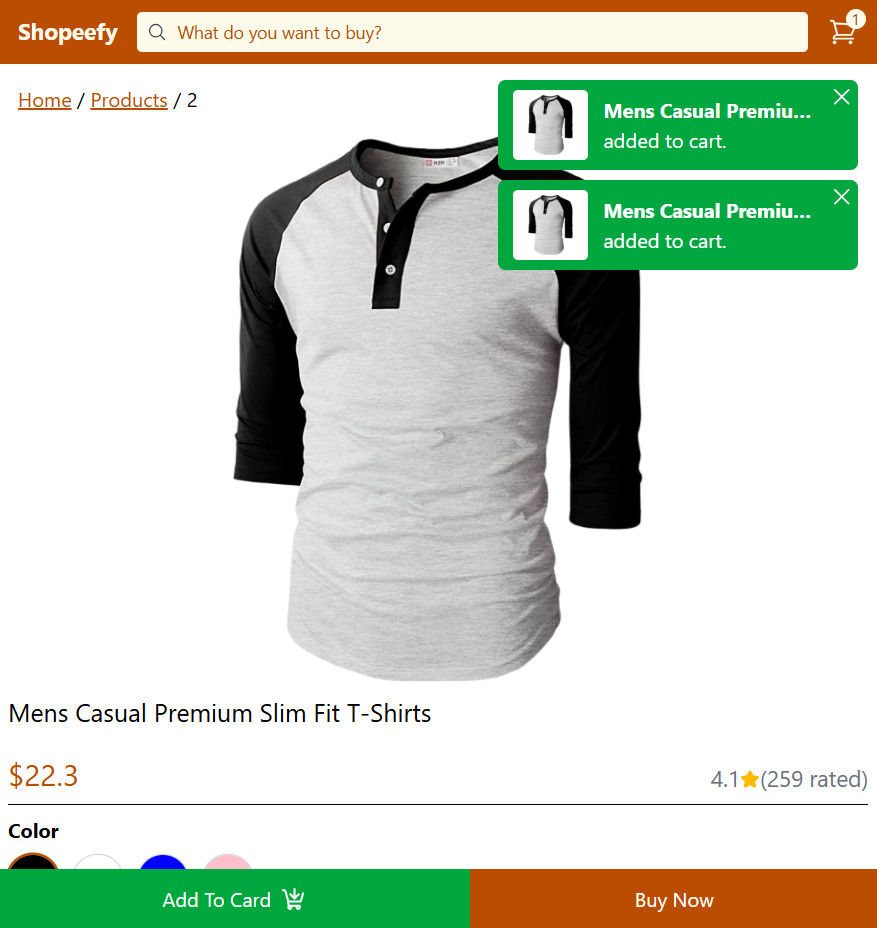
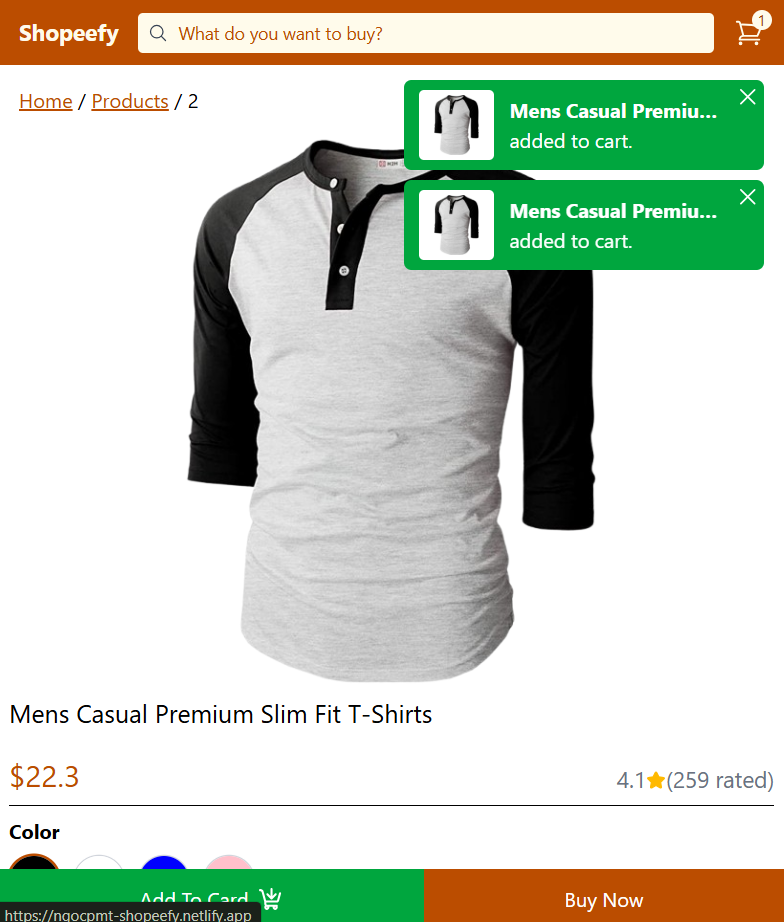
change font family to Fira Code and adjust project image sizing

diff --git a/index.html b/index.html
@@ -4,6 +4,12 @@
     <meta charset="UTF-8" />
     <link rel="icon" type="image/svg+xml" href="/favicon.svg" />
     <meta name="viewport" content="width=device-width, initial-scale=1.0" />
+    <link rel="preconnect" href="https://fonts.googleapis.com" />
+    <link rel="preconnect" href="https://fonts.gstatic.com" crossorigin />
+    <link
+      href="https://fonts.googleapis.com/css2?family=Fira+Code:wght@300..700&display=swap"
+      rel="stylesheet"
+    />
     <link rel="stylesheet" href="./src/style.css" />
     <title>Nathan Pham</title>
   </head>

diff --git a/src/style.css b/src/style.css
@@ -1,4 +1,9 @@
+@import url("https://fonts.googleapis.com/css2?family=Fira+Code:wght@300..700&display=swap");
 @import "tailwindcss";
+
+@theme {
+  --font-mono: "Fira Code", monospace;
+}
 
 @utility text-primary {
   color: hsl(73, 50%, 10%);
@@ -30,4 +35,8 @@
 
 @utility bg-tertiary {
   background-color: hsl(13, 80%, 20%);
+}
+
+body {
+  @apply font-mono;
 }

diff --git a/tailwind.config.js b/tailwind.config.js
@@ -1,0 +1,10 @@
+export default {
+  theme: {
+    extend: {
+      fontFamily: {
+        mono: ["Fira Code", "monospace"],
+      },
+    },
+  },
+  plugins: [],
+};
